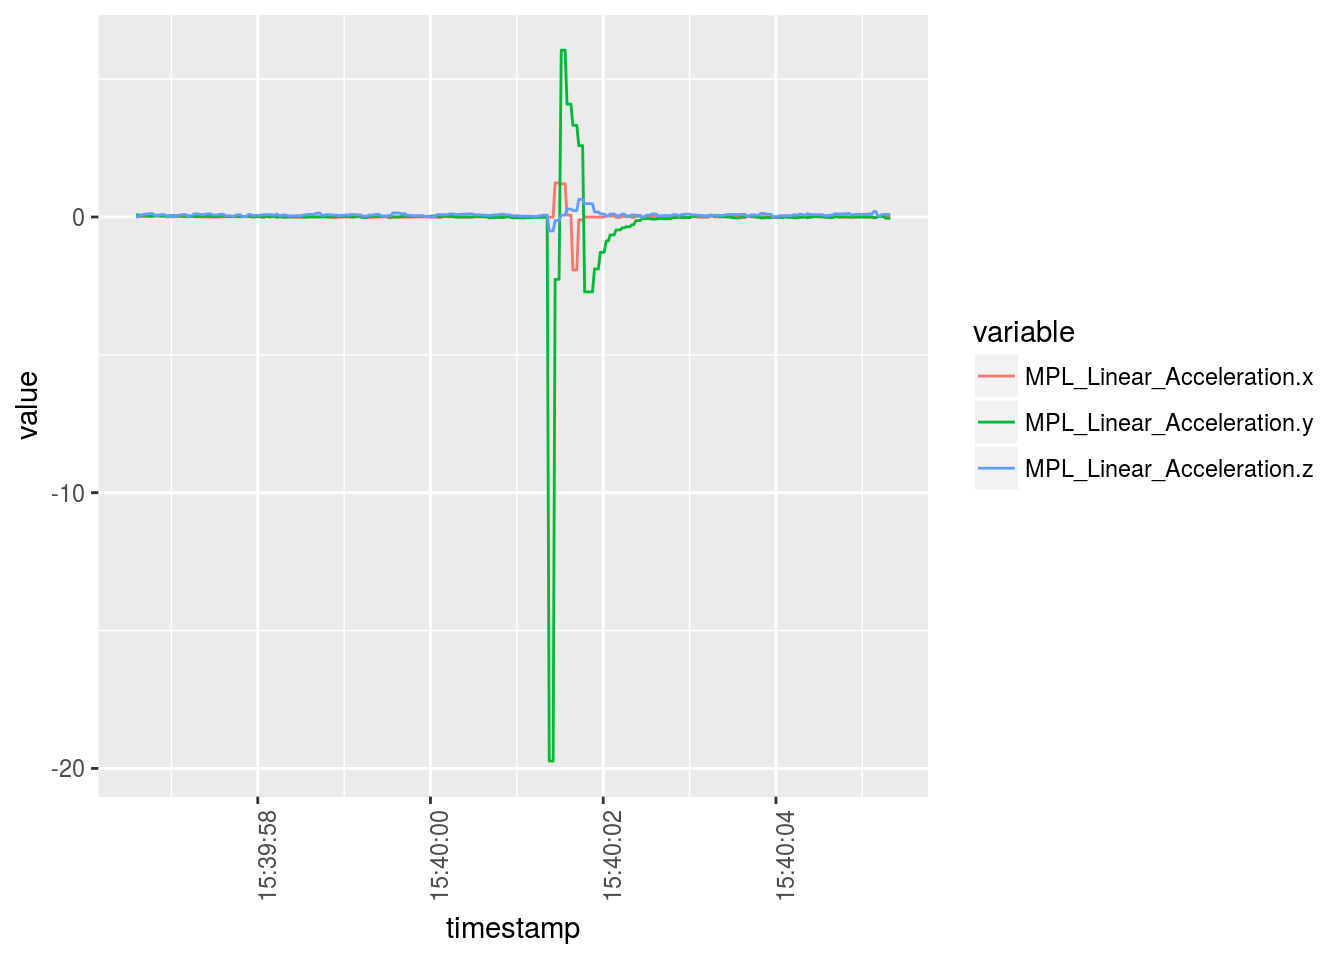
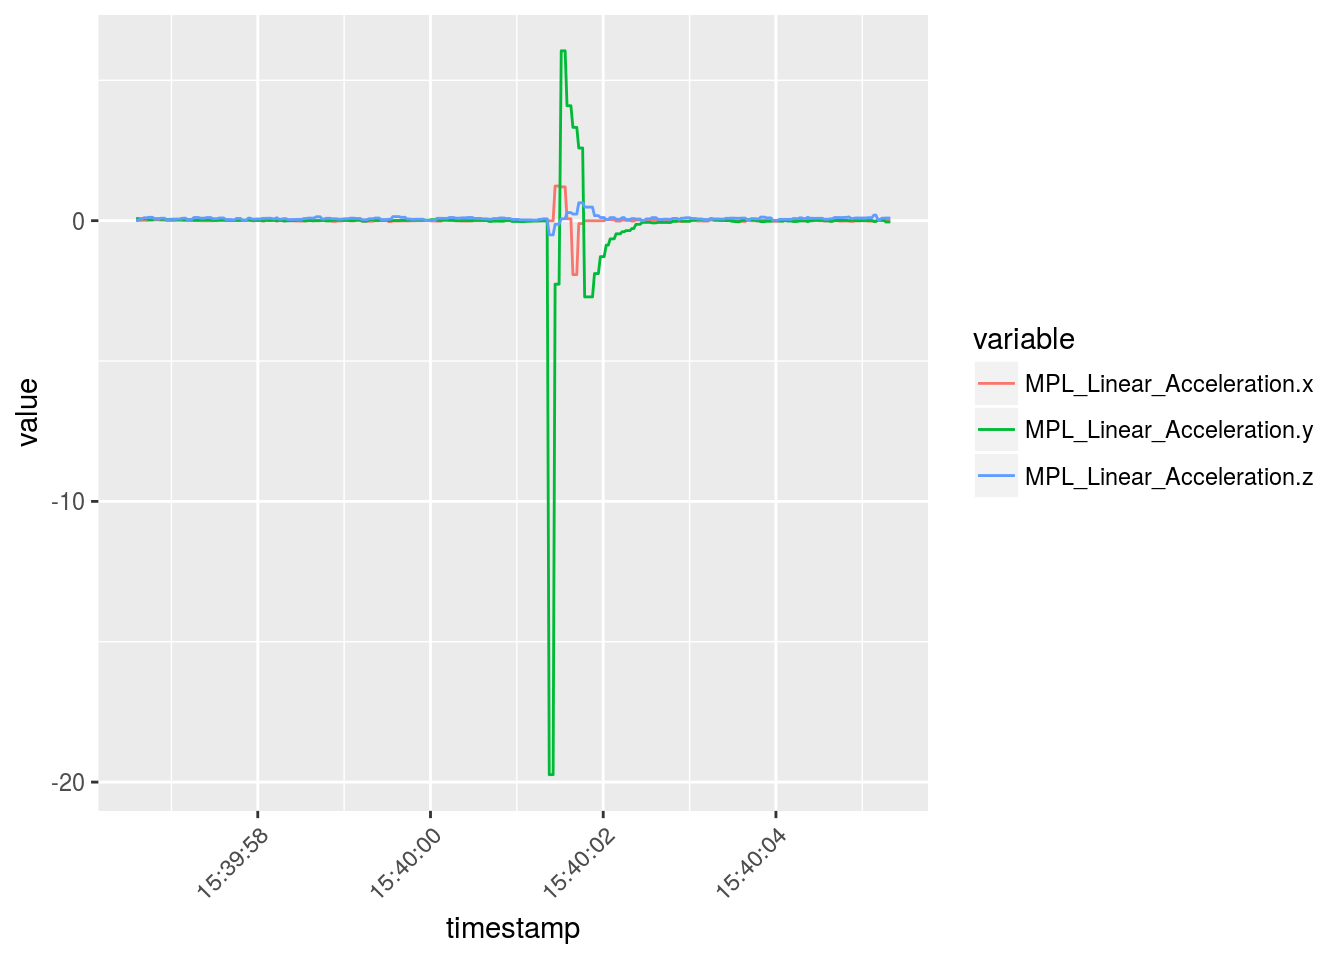
using make.socket, rea.socket instead of socket.connections

diff --git a/docs/index.html b/docs/index.html
@@ -92,6 +92,31 @@
   <span class="kw">install.packages</span>(<span class="st">"devtools"</span>)
 devtools<span class="op">::</span><span class="kw"><a href="http://www.rdocumentation.org/packages/devtools/topics/install_github">install_github</a></span>(<span class="st">"JohannesFriedrich/HypeRIMU@master"</span>)</code></pre></div>
 </div>
+<div id="examples" class="section level2">
+<h2 class="hasAnchor">
+<a href="#examples" class="anchor"></a>Examples</h2>
+<p>Create a local csv-file with the app HyperIMU and load it on your PC</p>
+<div class="sourceCode"><pre class="sourceCode r"><code class="sourceCode r"><span class="kw">library</span>(<span class="st">"HypeRIMU"</span>)
+file &lt;-<span class="st"> </span><span class="kw"><a href="http://www.rdocumentation.org/packages/devtools/topics/system.file">system.file</a></span>(<span class="st">'extdata'</span>, <span class="st">'short_y_impulse.csv'</span>, <span class="dt">package =</span> <span class="st">'HypeRIMU'</span>)
+data &lt;-<span class="st"> </span><span class="kw"><a href="reference/execute_file.html">execute_file</a></span>(file, <span class="dt">timestamp =</span> T)</code></pre></div>
+<p>You can now separate different sensors (dependend on your recorded data):</p>
+<div class="sourceCode"><pre class="sourceCode r"><code class="sourceCode r">MPL_Accelerometer &lt;-<span class="st"> </span><span class="kw"><a href="reference/get_specificSensor.html">get_specificSensor</a></span>(data, <span class="dt">sensorName =</span> <span class="st">"MPL_Accelerometer"</span>)
+MPL_Linear_Acceleration &lt;-<span class="st"> </span><span class="kw"><a href="reference/get_specificSensor.html">get_specificSensor</a></span>(data, <span class="dt">sensorName =</span> <span class="st">"MPL_Linear_Acceleration"</span>)</code></pre></div>
+<p>Plot your resuts:</p>
+<div class="sourceCode"><pre class="sourceCode r"><code class="sourceCode r"><span class="kw">matplot</span>(MPL_Accelerometer<span class="op">$</span>timestamp, MPL_Accelerometer[,<span class="dv">2</span><span class="op">:</span><span class="dv">4</span>])</code></pre></div>
+<p>Note that with this plot (<code>matplot</code>) the x-axis is not in a human-readable format.</p>
+<p>We recommend using ggplot2:</p>
+<div class="sourceCode"><pre class="sourceCode r"><code class="sourceCode r"><span class="kw">library</span>(ggplot2)
+<span class="kw">library</span>(reshape2)
+<span class="kw">library</span>(scales)
+
+MPL_Linear_Acceleration_melt &lt;-<span class="st"> </span><span class="kw"><a href="http://www.rdocumentation.org/packages/reshape2/topics/melt">melt</a></span>(MPL_Linear_Acceleration, <span class="dt">id.vars =</span> <span class="st">"timestamp"</span>)
+
+<span class="kw"><a href="http://www.rdocumentation.org/packages/ggplot2/topics/ggplot">ggplot</a></span>(MPL_Linear_Acceleration_melt, <span class="kw"><a href="http://www.rdocumentation.org/packages/ggplot2/topics/aes">aes</a></span>(<span class="dt">x =</span> timestamp, <span class="dt">y =</span> value, <span class="dt">color =</span> variable)) <span class="op">+</span><span class="st"> </span>
+<span class="st">  </span><span class="kw"><a href="http://www.rdocumentation.org/packages/ggplot2/topics/geom_path">geom_line</a></span>() <span class="op">+</span>
+<span class="st">  </span><span class="kw"><a href="http://www.rdocumentation.org/packages/ggplot2/topics/theme">theme</a></span>(<span class="dt">axis.text.x =</span> <span class="kw"><a href="http://www.rdocumentation.org/packages/ggplot2/topics/element">element_text</a></span>(<span class="dt">angle =</span> <span class="dv">45</span>, <span class="dt">hjust =</span> <span class="dv">1</span>)) <span class="op">+</span><span class="st"> </span>
+<span class="st">  </span><span class="kw"><a href="http://www.rdocumentation.org/packages/ggplot2/topics/scale_date">scale_x_datetime</a></span>(<span class="dt">labels =</span> <span class="kw"><a href="http://www.rdocumentation.org/packages/scales/topics/date_format">date_format</a></span>(<span class="st">"%H:%M:%S"</span>, <span class="dt">tz =</span> <span class="kw">Sys.timezone</span>()))</code></pre></div>
+</div>
 <div id="related-projects" class="section level2">
 <h2 class="hasAnchor">
 <a href="#related-projects" class="anchor"></a>Related projects</h2>
@@ -138,6 +163,7 @@ devtools<span class="op">::</span><span class="kw"><a href="http://www.rdocument
 <li><a href="https://travis-ci.org/JohannesFriedrich/HypeRIMU"><img src="https://travis-ci.org/JohannesFriedrich/HypeRIMU.svg?branch=master" alt="Build Status"></a></li>
 <li><a href="https://ci.appveyor.com/project/JohannesFriedrich/hyperimu"><img src="https://ci.appveyor.com/api/projects/status/lm7jn3t558yxveve?svg=true" alt="Build status"></a></li>
 <li><a href="https://codecov.io/gh/JohannesFriedrich/HypeRIMU"><img src="https://codecov.io/gh/JohannesFriedrich/HypeRIMU/branch/master/graph/badge.svg" alt="Coverage Status"></a></li>
+<li><a href="http://www.repostatus.org/#active"><img src="http://www.repostatus.org/badges/latest/active.svg" alt="Project Status: Active – The project has reached a stable, usable state and is being actively developed."></a></li>
 </ul>
 </div>
 </div>

diff --git a/docs/articles/Getting_started_with_HypeRIMU.html b/docs/articles/Getting_started_with_HypeRIMU.html
@@ -84,7 +84,7 @@
       <h1>Getting started with HypeRIMU</h1>
                         <h4 class="author">Johannes Friedrich</h4>
             
-            <h4 class="date">2017-11-13</h4>
+            <h4 class="date">2017-11-25</h4>
           </div>
 
     
@@ -146,14 +146,14 @@ MPL_Linear_Acceleration_melt &lt;-<span class="st"> </span><span class="kw"><a h
 
 <span class="kw"><a href="http://www.rdocumentation.org/packages/ggplot2/topics/ggplot">ggplot</a></span>(MPL_Linear_Acceleration_melt, <span class="kw"><a href="http://www.rdocumentation.org/packages/ggplot2/topics/aes">aes</a></span>(<span class="dt">x =</span> timestamp, <span class="dt">y =</span> value, <span class="dt">color =</span> variable)) <span class="op">+</span><span class="st"> </span>
 <span class="st">  </span><span class="kw"><a href="http://www.rdocumentation.org/packages/ggplot2/topics/geom_path">geom_line</a></span>() <span class="op">+</span>
-<span class="st">  </span><span class="kw"><a href="http://www.rdocumentation.org/packages/ggplot2/topics/theme">theme</a></span>(<span class="dt">axis.text.x =</span> <span class="kw"><a href="http://www.rdocumentation.org/packages/ggplot2/topics/element">element_text</a></span>(<span class="dt">angle =</span> <span class="dv">90</span>, <span class="dt">hjust =</span> <span class="dv">1</span>)) <span class="op">+</span><span class="st"> </span>
+<span class="st">  </span><span class="kw"><a href="http://www.rdocumentation.org/packages/ggplot2/topics/theme">theme</a></span>(<span class="dt">axis.text.x =</span> <span class="kw"><a href="http://www.rdocumentation.org/packages/ggplot2/topics/element">element_text</a></span>(<span class="dt">angle =</span> <span class="dv">45</span>, <span class="dt">hjust =</span> <span class="dv">1</span>)) <span class="op">+</span><span class="st"> </span>
 <span class="st">  </span><span class="kw"><a href="http://www.rdocumentation.org/packages/ggplot2/topics/scale_date">scale_x_datetime</a></span>(<span class="dt">labels =</span> <span class="kw"><a href="http://www.rdocumentation.org/packages/scales/topics/date_format">date_format</a></span>(<span class="st">"%H:%M:%S"</span>, <span class="dt">tz =</span> <span class="kw">Sys.timezone</span>()))</code></pre></div>
 <p><img src="Getting_started_with_HypeRIMU_files/figure-html/plot%20sensor%20data-1.png" width="672" style="display: block; margin: auto;"></p>
 <div class="sourceCode"><pre class="sourceCode r"><code class="sourceCode r">MPL_Accelerometer_melt &lt;-<span class="st"> </span><span class="kw"><a href="http://www.rdocumentation.org/packages/reshape2/topics/melt">melt</a></span>(MPL_Accelerometer, <span class="dt">id.vars =</span> <span class="st">"timestamp"</span>)
 
 <span class="kw"><a href="http://www.rdocumentation.org/packages/ggplot2/topics/ggplot">ggplot</a></span>(MPL_Accelerometer_melt, <span class="kw"><a href="http://www.rdocumentation.org/packages/ggplot2/topics/aes">aes</a></span>(<span class="dt">x =</span> timestamp, <span class="dt">y =</span> value, <span class="dt">color =</span> variable)) <span class="op">+</span><span class="st"> </span>
 <span class="st">  </span><span class="kw"><a href="http://www.rdocumentation.org/packages/ggplot2/topics/geom_path">geom_line</a></span>() <span class="op">+</span>
-<span class="st">  </span><span class="kw"><a href="http://www.rdocumentation.org/packages/ggplot2/topics/theme">theme</a></span>(<span class="dt">axis.text.x =</span> <span class="kw"><a href="http://www.rdocumentation.org/packages/ggplot2/topics/element">element_text</a></span>(<span class="dt">angle =</span> <span class="dv">90</span>, <span class="dt">hjust =</span> <span class="dv">1</span>)) <span class="op">+</span><span class="st"> </span>
+<span class="st">  </span><span class="kw"><a href="http://www.rdocumentation.org/packages/ggplot2/topics/theme">theme</a></span>(<span class="dt">axis.text.x =</span> <span class="kw"><a href="http://www.rdocumentation.org/packages/ggplot2/topics/element">element_text</a></span>(<span class="dt">angle =</span> <span class="dv">45</span>, <span class="dt">hjust =</span> <span class="dv">1</span>)) <span class="op">+</span><span class="st"> </span>
 <span class="st">  </span><span class="kw"><a href="http://www.rdocumentation.org/packages/ggplot2/topics/scale_date">scale_x_datetime</a></span>(<span class="dt">labels =</span> <span class="kw"><a href="http://www.rdocumentation.org/packages/scales/topics/date_format">date_format</a></span>(<span class="st">"%H:%M:%S"</span>, <span class="dt">tz =</span> <span class="kw">Sys.timezone</span>())) </code></pre></div>
 <p><img src="Getting_started_with_HypeRIMU_files/figure-html/unnamed-chunk-4-1.png" width="672" style="display: block; margin: auto;"></p>
 </div>

diff --git a/docs/reference/execute_TCP.html b/docs/reference/execute_TCP.html
@@ -114,7 +114,7 @@
     <p>Performs data acquisition from data received from TCP</p>
     
 
-    <pre class="usage"><span class='fu'>execute_TCP</span>(<span class='no'>port</span>, <span class='kw'>timestamp</span> <span class='kw'>=</span> <span class='fl'>FALSE</span>, <span class='kw'>sensorNames</span> <span class='kw'>=</span> <span class='kw'>NULL</span>, <span class='kw'>timeout</span> <span class='kw'>=</span> <span class='fl'>10</span>)</pre>
+    <pre class="usage"><span class='fu'>execute_TCP</span>(<span class='no'>port</span>, <span class='kw'>timestamp</span> <span class='kw'>=</span> <span class='fl'>FALSE</span>, <span class='kw'>sensorNames</span> <span class='kw'>=</span> <span class='kw'>NULL</span>)</pre>
     
     <h2 class="hasAnchor" id="arguments"><a class="anchor" href="#arguments"></a> Arguments</h2>
     <table class="ref-arguments">
@@ -131,10 +131,6 @@
       <th>sensorNames</th>
       <td><p>character (<strong>optional</strong>): Name of the exported sensors</p></td>
     </tr>
-    <tr>
-      <th>timout</th>
-      <td><p>integer (<strong>optional</strong>): the timeout (in seconds) to be used for this connection.</p></td>
-    </tr>
     </table>
     
 
@@ -144,8 +140,7 @@
 <span class='co'>## Example 1: read data from TCP connecntion</span>
 <span class='co'>##==========================================</span>
 
-<span class='no'>data</span> <span class='kw'>&lt;-</span> <span class='fu'>execute_TCP</span>(<span class='kw'>port</span> <span class='kw'>=</span> <span class='fl'>5555</span>, <span class='kw'>timestamp</span> <span class='kw'>=</span> <span class='no'>T</span>)
-<span class='co'>## start HyperIMU app</span>
+<span class='no'>data</span> <span class='kw'>&lt;-</span> <span class='fu'>execute_TCP</span>(<span class='kw'>port</span> <span class='kw'>=</span> <span class='fl'>5555</span>)
 
 <span class='co'># }</span></pre>
   </div>

diff --git a/docs/reference/HypeRIMU-package.html b/docs/reference/HypeRIMU-package.html
@@ -125,7 +125,7 @@
 </td>
 <td> 0.0.1 </td>
 </tr><tr><td> Date: </td>
-<td> 2017-11-10 </td>
+<td> 2017-11-25 </td>
 </tr><tr><td> License: </td>
 <td> GPL-3</td>
 </tr></table>

diff --git a/README.md b/README.md
@@ -3,6 +3,7 @@
 [![Build Status](https://travis-ci.org/JohannesFriedrich/HypeRIMU.svg?branch=master)](https://travis-ci.org/JohannesFriedrich/HypeRIMU)
 [![Build status](https://ci.appveyor.com/api/projects/status/lm7jn3t558yxveve?svg=true)](https://ci.appveyor.com/project/JohannesFriedrich/hyperimu)
 [![Coverage Status](https://codecov.io/gh/JohannesFriedrich/HypeRIMU/branch/master/graph/badge.svg)](https://codecov.io/gh/JohannesFriedrich/HypeRIMU)
+[![Project Status: Active – The project has reached a stable, usable state and is being actively developed.](http://www.repostatus.org/badges/latest/active.svg)](http://www.repostatus.org/#active)
 
 
 HypeRIMU is a **R**-package for reading sensor data from the Android app [HyperIMU](https://play.google.com/store/apps/details?id=com.ianovir.hyper_imu). 
@@ -13,6 +14,46 @@ HypeRIMU is a **R**-package for reading sensor data from the Android app [HyperI
 if(!require("devtools"))
   install.packages("devtools")
 devtools::install_github("JohannesFriedrich/HypeRIMU@master")
+```
+
+## Examples
+
+Create a local csv-file with the app HyperIMU and load it on your PC
+
+```r
+library("HypeRIMU")
+file <- system.file('extdata', 'short_y_impulse.csv', package = 'HypeRIMU')
+data <- execute_file(file, timestamp = T)
+```
+
+You can now separate different sensors (dependend on your recorded data):
+
+```r
+MPL_Accelerometer <- get_specificSensor(data, sensorName = "MPL_Accelerometer")
+MPL_Linear_Acceleration <- get_specificSensor(data, sensorName = "MPL_Linear_Acceleration")
+```
+
+Plot your resuts:
+
+```r
+matplot(MPL_Accelerometer$timestamp, MPL_Accelerometer[,2:4])
+```
+
+Note that with this plot (`matplot`) the x-axis is not in a human-readable format.
+
+We recommend using ggplot2:
+
+```r
+library(ggplot2)
+library(reshape2)
+library(scales)
+
+MPL_Linear_Acceleration_melt <- melt(MPL_Linear_Acceleration, id.vars = "timestamp")
+
+ggplot(MPL_Linear_Acceleration_melt, aes(x = timestamp, y = value, color = variable)) + 
+  geom_line() +
+  theme(axis.text.x = element_text(angle = 45, hjust = 1)) + 
+  scale_x_datetime(labels = date_format("%H:%M:%S", tz = Sys.timezone()))
 ```
 
 ## Related projects 
